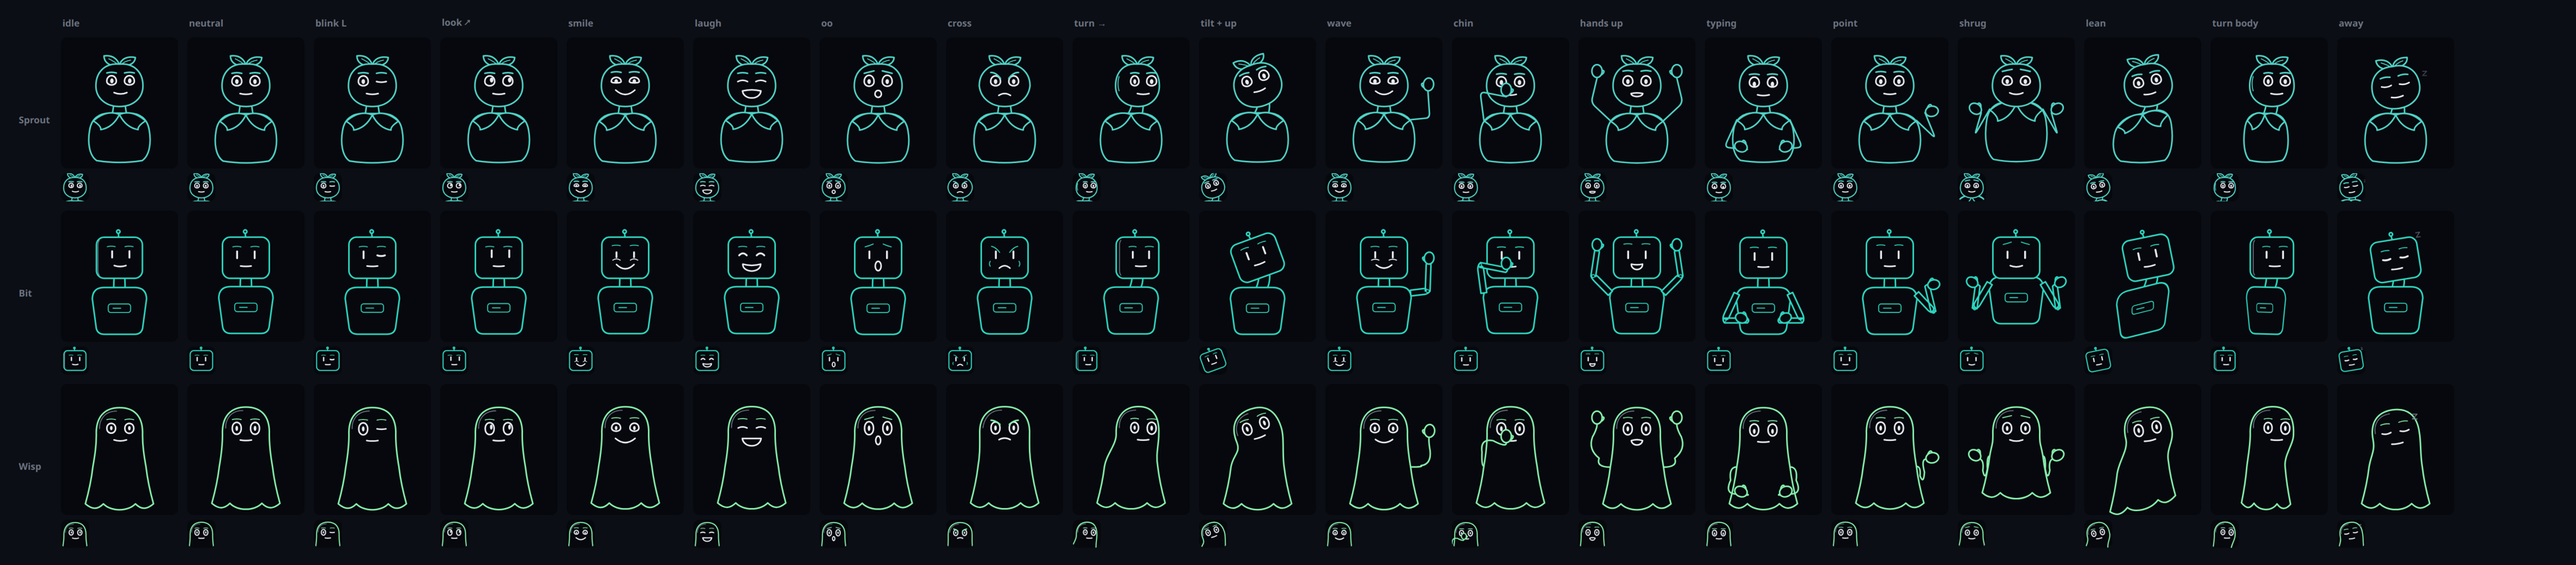
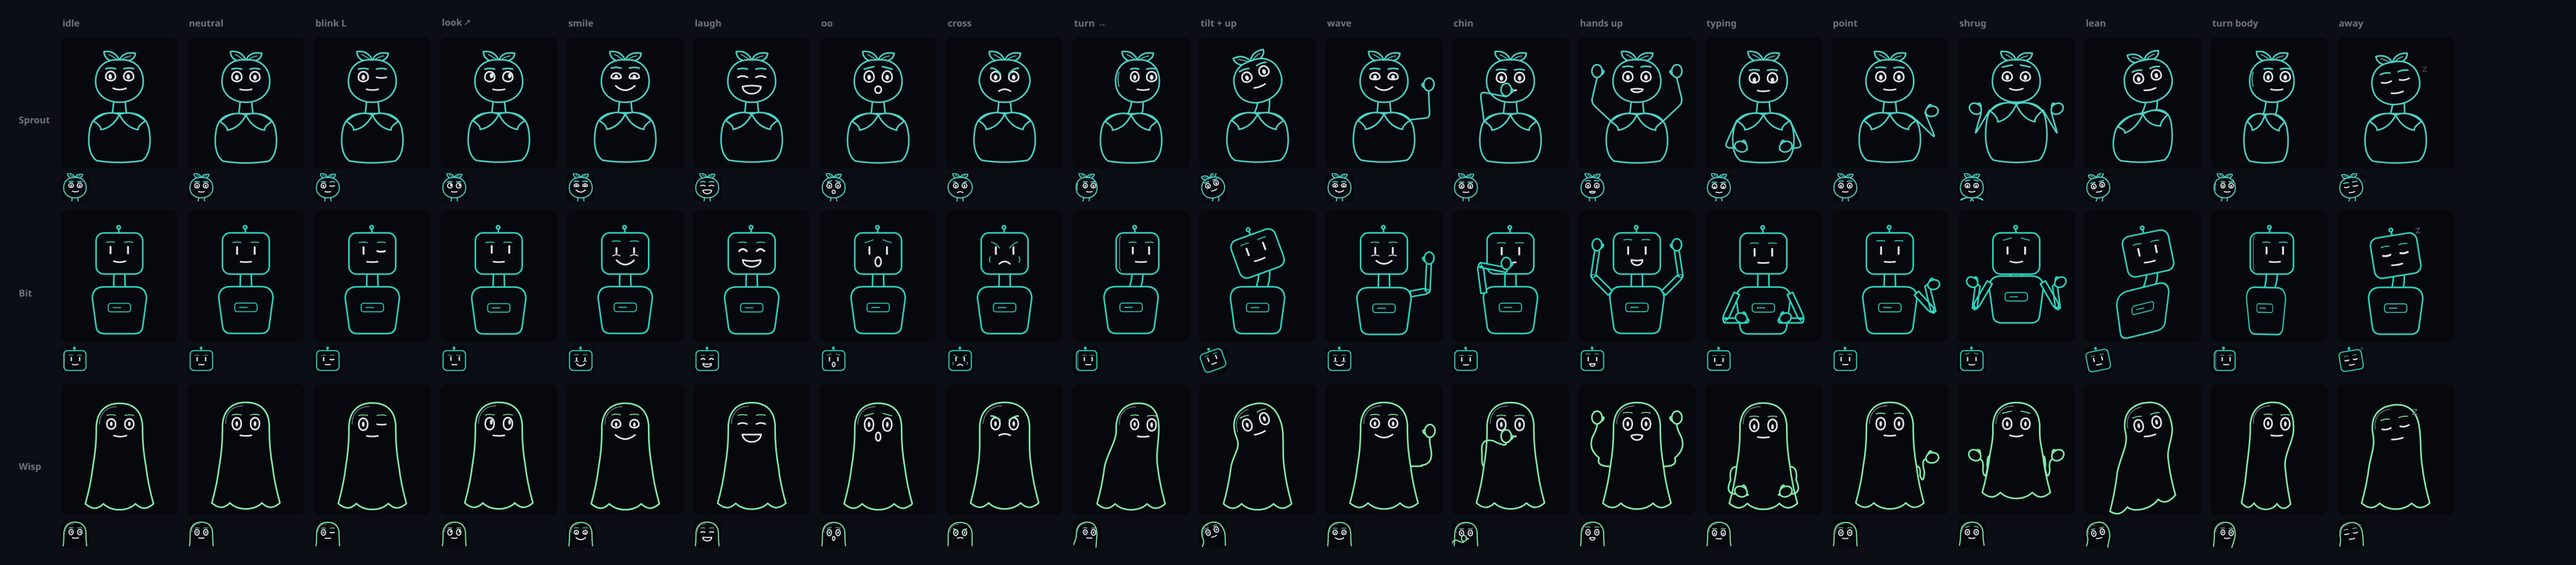
S44: the head sits up off the shoulders
The solver took a nose 0.9 shoulder widths above the shoulders as an
upright head; on a desk webcam it's usually less, so heads were pulled
down into the shoulders. Now it learns where yours rests (a slow average)
and measures the head's height from there, so at rest the head is where
the character puts it, and that rest is higher (HEAD_Y −0.68 → −0.76).

diff --git a/web/src/shared/avatar/solve.ts b/web/src/shared/avatar/solve.ts
@@ -52,9 +52,13 @@ export interface Seen {
 export interface Calib {
   gapL?: number;
   gapR?: number;
+  /** How far above the shoulders the nose usually is: the head's rest. */
+  nose?: number;
 }
 
 const learn = (base: number | undefined, v: number) => (base === undefined ? v : base + (v - base) * (v > base ? 0.3 : 0.003));
+/** A slow average, the same both ways (about 8 s at 12 fps). */
+const settle = (base: number | undefined, v: number) => (base === undefined ? v : base + (v - base) * 0.01);
 
 /** Which way `h` points, wrist to middle knuckle, in bust space (`ax`
  * scales x for the image's aspect). */
@@ -135,10 +139,13 @@ export function solve(s: Seen, calib: Calib = {}): Rig {
     r.shoulderR = [br[0], br[1] - liftR];
     const nose = s.face?.[NOSE];
     if (nose) {
-      // An upright head's nose sits about 0.9 shoulder widths above them;
+      // The head's height is measured from where yours usually sits (necks
+      // and cameras differ), so at rest it's where the character puts it;
       // a shrug brings the shoulders up, not the head down.
+      const gap = (nose.y - my) / unit;
+      const rest = (calib.nose = settle(calib.nose, gap));
       r.x = clamp(((nose.x - mx) * ax) / unit, -0.4, 0.4);
-      r.y = clamp(((nose.y - my) / unit + 0.9) * 0.6 - ((liftL + liftR) / 2) * 0.6, -0.3, 0.3);
+      r.y = clamp((gap - rest) * 0.6 - ((liftL + liftR) / 2) * 0.6, -0.3, 0.3);
     }
   } else if (s.face?.[NOSE]) {
     r.x = clamp((s.face[NOSE].x - 0.5) * 0.6, -0.3, 0.3);

diff --git a/web/src/shared/avatar/character.ts b/web/src/shared/avatar/character.ts
@@ -15,7 +15,7 @@ import type { Rig } from "./rig";
 
 /** Where an upright head's middle is, and about how big it is: a big
  * head on a short neck, so the face carries at chat size. */
-export const HEAD_Y = -0.68;
+export const HEAD_Y = -0.76;
 export const HEAD_R = 0.44;
 
 export interface Stage {
